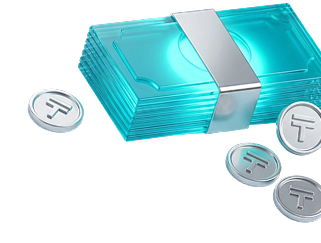
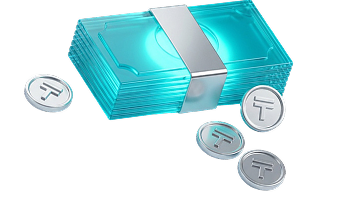
Доработка карточек условий, калькулятора и шагов
- Условия: новая сетка 2+2, блюр-круги, обновлённые иллюстрации
- Калькулятор: результаты в один блок, переплата мелким текстом
- Шаги: плоский фон иконок, пунктирная линия между шагами
- CTA: иллюстрация сдвинута левее
- LeadForm: белая плашка квиз-формы

diff --git a/src/components/sections/Calculator.tsx b/src/components/sections/Calculator.tsx
@@ -246,51 +246,42 @@ export default function Calculator({
             </div>
 
             {/* Result tiles */}
-            <div className="mt-6 grid gap-4 lg:grid-cols-2">
-              <div className="rounded-2xl bg-brand-50 p-6 sm:p-7">
-                <div className="text-center text-base font-semibold text-neutral-900">
-                  Ежемесячный платёж
-                </div>
-                <div className="mt-1 text-center text-sm text-neutral-500">
-                  Аннуитетный платёж
-                </div>
-                <div
-                  className={`mt-5 text-center text-3xl font-bold sm:text-[32px] ${
-                    isBelowMin ? "text-neutral-300" : "text-neutral-900"
-                  }`}
-                >
-                  {isBelowMin ? (
-                    "— ₸"
-                  ) : (
-                    <>
-                      <AnimatedNumber value={Math.round(result.monthlyPayment)} />
-                      &nbsp;₸
-                    </>
-                  )}
-                </div>
+            <div className="mt-6 rounded-2xl border border-neutral-200 bg-white p-6 sm:p-7">
+              <div className="text-sm text-neutral-500">Ежемесячный платёж</div>
+              <div
+                className={`mt-2 text-3xl font-bold sm:text-[36px] ${
+                  isBelowMin ? "text-neutral-300" : "text-brand-600"
+                }`}
+              >
+                {isBelowMin ? (
+                  "— ₸"
+                ) : (
+                  <>
+                    <AnimatedNumber value={Math.round(result.monthlyPayment)} />
+                    &nbsp;₸
+                  </>
+                )}
               </div>
-
-              <div className="rounded-2xl bg-neutral-50 p-6 sm:p-7">
-                <div className="text-center text-base font-semibold text-neutral-900">
-                  Переплата за весь срок
-                </div>
-                <div className="mt-1 text-center text-sm text-neutral-500">
-                  Срок {term} мес
-                </div>
-                <div
-                  className={`mt-5 text-center text-3xl font-bold sm:text-[32px] ${
-                    isBelowMin ? "text-neutral-300" : "text-neutral-900"
-                  }`}
-                >
-                  {isBelowMin ? (
-                    "— ₸"
-                  ) : (
-                    <>
-                      <AnimatedNumber value={Math.round(result.overpayment)} />
-                      &nbsp;₸
-                    </>
-                  )}
-                </div>
+              <div className="mt-4 flex flex-wrap gap-x-6 gap-y-1 text-sm text-neutral-400">
+                <span>
+                  Сумма кредита:{" "}
+                  <span className={isBelowMin ? "text-neutral-300" : "text-neutral-600"}>
+                    {isBelowMin ? "—" : formatNumber(amount)} ₸
+                  </span>
+                </span>
+                <span>
+                  Переплата:{" "}
+                  <span className={isBelowMin ? "text-neutral-300" : "text-neutral-600"}>
+                    {isBelowMin ? (
+                      "—"
+                    ) : (
+                      <>{formatNumber(Math.round(result.overpayment))} ₸</>
+                    )}
+                  </span>
+                </span>
+                <span>
+                  Срок: <span className="text-neutral-600">{term} мес</span>
+                </span>
               </div>
             </div>
 

diff --git a/src/components/sections/Conditions.tsx b/src/components/sections/Conditions.tsx
@@ -11,13 +11,13 @@ const CARD_STYLE =
 const CARD_BASE = `${CARD_STYLE} overflow-hidden`;
 
 // Bento placement:
-// item 0 — big left (col 1, rows 1-2)
-// item 1 — wide top-right (cols 2-3, row 1)
-// item 2 — small bottom-right 1 (col 2, row 2)
-// item 3 — small bottom-right 2 (col 3, row 2)
+// item 0 — tall left (col 1, rows 1-2)
+// item 1 — tall middle (col 2, rows 1-2)
+// item 2 — small top-right (col 3, row 1)
+// item 3 — small bottom-right (col 3, row 2)
 const BENTO_CLASSES = [
   "lg:col-span-1 lg:row-span-2",
-  "lg:col-span-2",
+  "lg:col-span-1 lg:row-span-2",
   "lg:col-span-1",
   "lg:col-span-1",
 ];
@@ -78,7 +78,7 @@ export default function Conditions({ data }: { data: ConditionsData }) {
                   {/* Blur circle */}
                   <div className="absolute left-[12%] top-[-30%] h-[265px] w-[265px] rounded-full bg-brand-300/15 blur-[80px]" />
                   {/* Illustration */}
-                  <div className="absolute inset-x-0 top-4 flex h-[65%] items-center justify-end -right-2">
+                  <div className="absolute inset-x-0 top-4 flex h-[55%] items-center justify-center">
                     <img
                       src="/images/conditions-amount.png"
                       alt="Сумма кредита"
@@ -91,21 +91,21 @@ export default function Conditions({ data }: { data: ConditionsData }) {
                 </div>
               )}
 
-              {/* Wide: horizontal, text left + image right */}
+              {/* Tall middle: vertical, image top + text bottom */}
               {i === 1 && (
-                <div className={`${CARD_BASE} flex items-center`}>
+                <div className={`${CARD_BASE} flex flex-col justify-end`}>
                   {/* Blur circle */}
-                  <div className="absolute right-[10%] top-[-40%] h-[265px] w-[265px] rounded-full bg-brand-300/15 blur-[80px]" />
-                  <div className="relative z-10 flex-1">
-                    <ValueLabel value={item.value} label={item.label} size="md" align="left" />
-                  </div>
-                  {/* Rotated illustration */}
-                  <div className="absolute -right-4 top-1/2 flex h-[200%] w-[45%] -translate-y-1/2 items-center justify-center">
+                  <div className="absolute left-[12%] top-[-30%] h-[265px] w-[265px] rounded-full bg-brand-300/15 blur-[80px]" />
+                  {/* Illustration */}
+                  <div className="absolute inset-x-0 top-4 flex h-[65%] items-center justify-center">
                     <img
                       src="/images/conditions-rate.png"
                       alt="Процентная ставка"
-                      className="w-full max-w-none object-contain drop-shadow-lg"
+                      className="h-full max-w-none object-contain drop-shadow-lg"
                     />
+                  </div>
+                  <div className="relative z-10 pt-6">
+                    <ValueLabel value={item.value} label={item.label} size="lg" />
                   </div>
                 </div>
               )}

diff --git a/src/components/sections/Steps.tsx b/src/components/sections/Steps.tsx
@@ -9,7 +9,7 @@ const STEP_ICONS = [FileText, Search, CheckCircle2, Banknote];
 
 export default function Steps({ data }: { data: Step[] }) {
   return (
-    <section className="bg-gradient-to-b from-brand-50 to-white py-16 sm:py-20">
+    <section className="bg-neutral-50 py-16 sm:py-20">
       <Container>
         <AnimateOnScroll>
           <h2 className="text-center text-2xl font-bold sm:text-3xl">Как получить кредит</h2>
@@ -18,16 +18,20 @@ export default function Steps({ data }: { data: Step[] }) {
           </p>
         </AnimateOnScroll>
 
-        <div className="mt-12 grid gap-10 sm:grid-cols-2 sm:gap-8 lg:grid-cols-4 lg:gap-6">
+        <div className="relative mt-12 grid gap-10 sm:grid-cols-2 sm:gap-8 lg:grid-cols-4 lg:gap-6">
+          {/* Connecting line between steps (desktop only) */}
+          <div className="pointer-events-none absolute left-0 right-0 top-10 hidden lg:block">
+            <div className="mx-auto h-[1px] w-[65%] border-t border-dashed border-neutral-300" />
+          </div>
           {data.map((step, i) => {
             const Icon = STEP_ICONS[i] ?? FileText;
             return (
               <AnimateOnScroll key={step.number} delay={i * 0.12}>
                 <div className="flex flex-col items-center text-center">
                   {/* Illustration squircle + number badge */}
-                  <div className="relative">
-                    <div className="flex h-24 w-24 items-center justify-center rounded-[22px] bg-gradient-to-br from-brand-200 via-brand-100 to-white shadow-sm ring-1 ring-brand-100 sm:h-28 sm:w-28 sm:rounded-[24px]">
-                      <Icon size={44} strokeWidth={1.4} className="text-brand-600" />
+                  <div className="relative z-10">
+                    <div className="flex h-16 w-16 items-center justify-center rounded-[16px] bg-brand-100 sm:h-20 sm:w-20 sm:rounded-[18px]">
+                      <Icon size={32} strokeWidth={1.4} className="text-brand-600" />
                     </div>
                     <div className="absolute -left-1.5 -top-1.5 flex h-7 w-7 items-center justify-center rounded-full bg-neutral-900 text-xs font-bold text-white shadow-md">
                       {step.number}

diff --git a/src/components/sections/LeadForm.tsx b/src/components/sections/LeadForm.tsx
@@ -229,7 +229,7 @@ export default function LeadForm({ collateralType }: LeadFormProps) {
               </div>
             )}
 
-            <div className="rounded-3xl bg-white/60 p-6 ring-1 ring-white/80 backdrop-blur-sm sm:p-10">
+            <div className="rounded-3xl bg-white p-6 ring-1 ring-neutral-100 sm:p-10">
               {/* Header: progress bar + step counter */}
               <div className="flex items-center gap-4">
                 <div className="h-1 flex-1 overflow-hidden rounded-full bg-white/80">

diff --git a/src/components/sections/CTABanner.tsx b/src/components/sections/CTABanner.tsx
@@ -58,7 +58,7 @@ export default function CTABanner({
               <img
                 src="/images/cta-illustration.png"
                 alt="Иллюстрация"
-                className="h-auto w-full max-w-none object-contain drop-shadow-2xl md:-my-8 md:w-[110%] md:max-w-[560px]"
+                className="h-auto w-full max-w-none object-contain drop-shadow-2xl md:-my-8 md:-ml-12 md:w-[110%] md:max-w-[560px]"
               />
             </div>
           </div>
